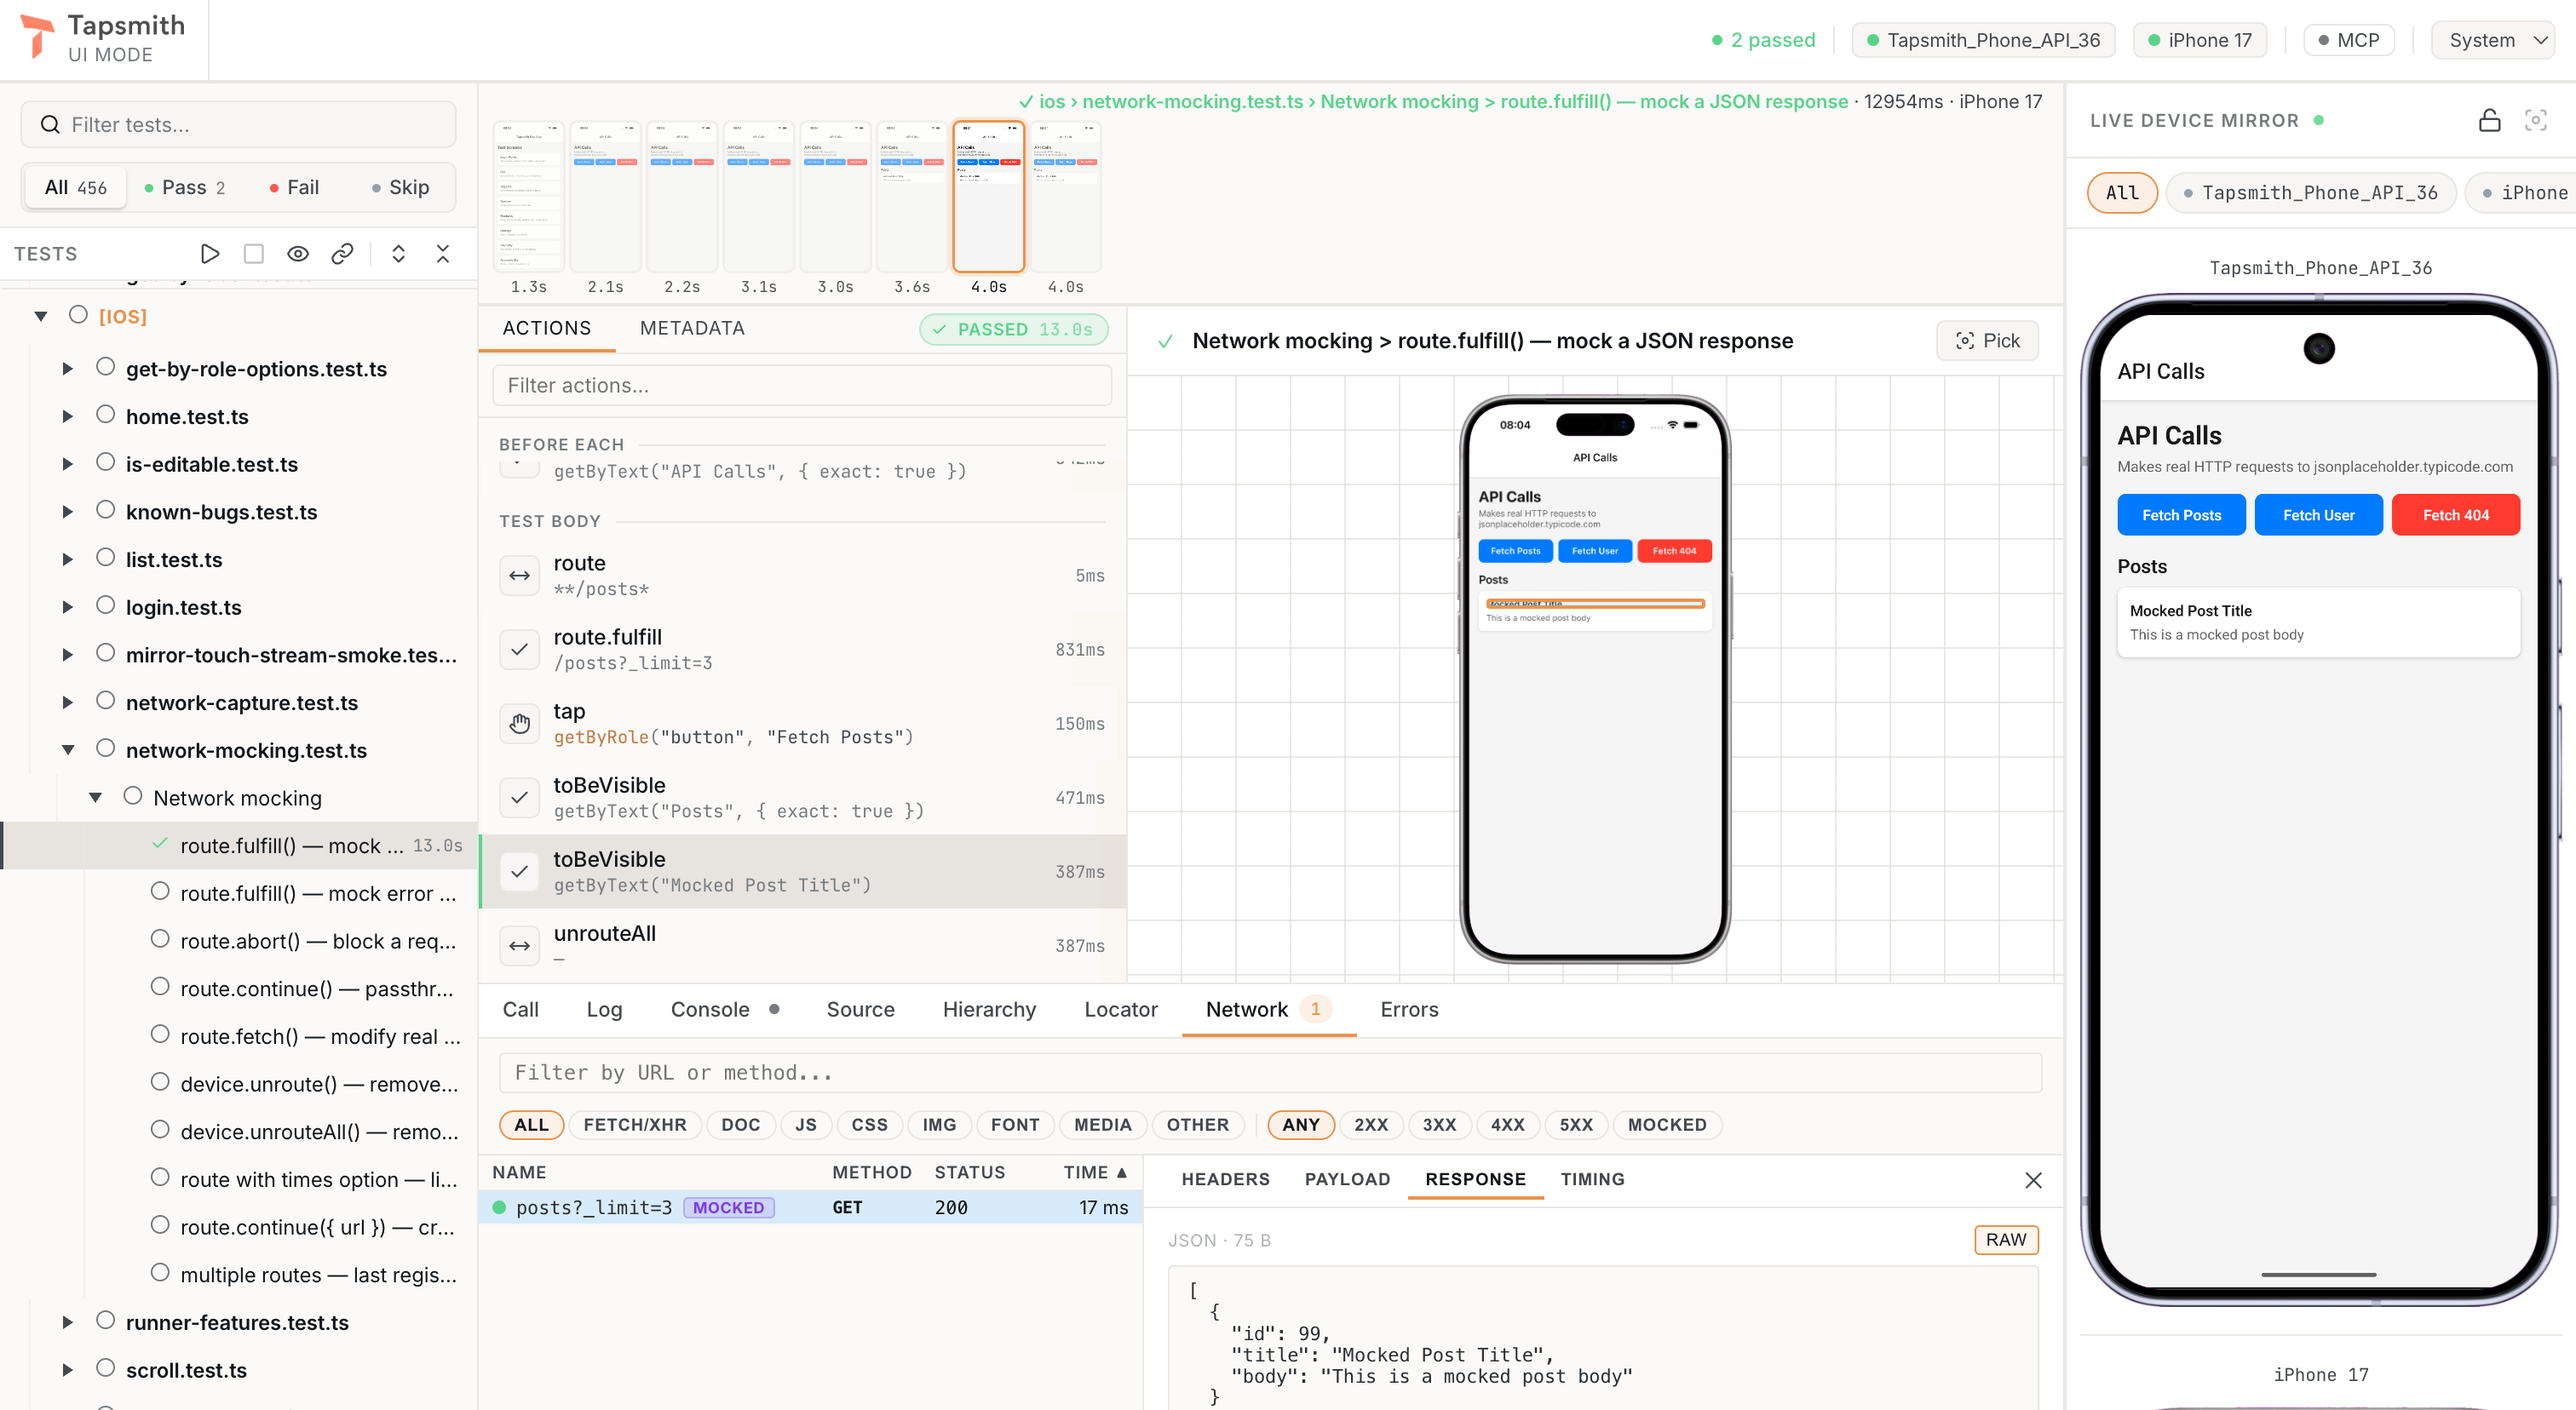
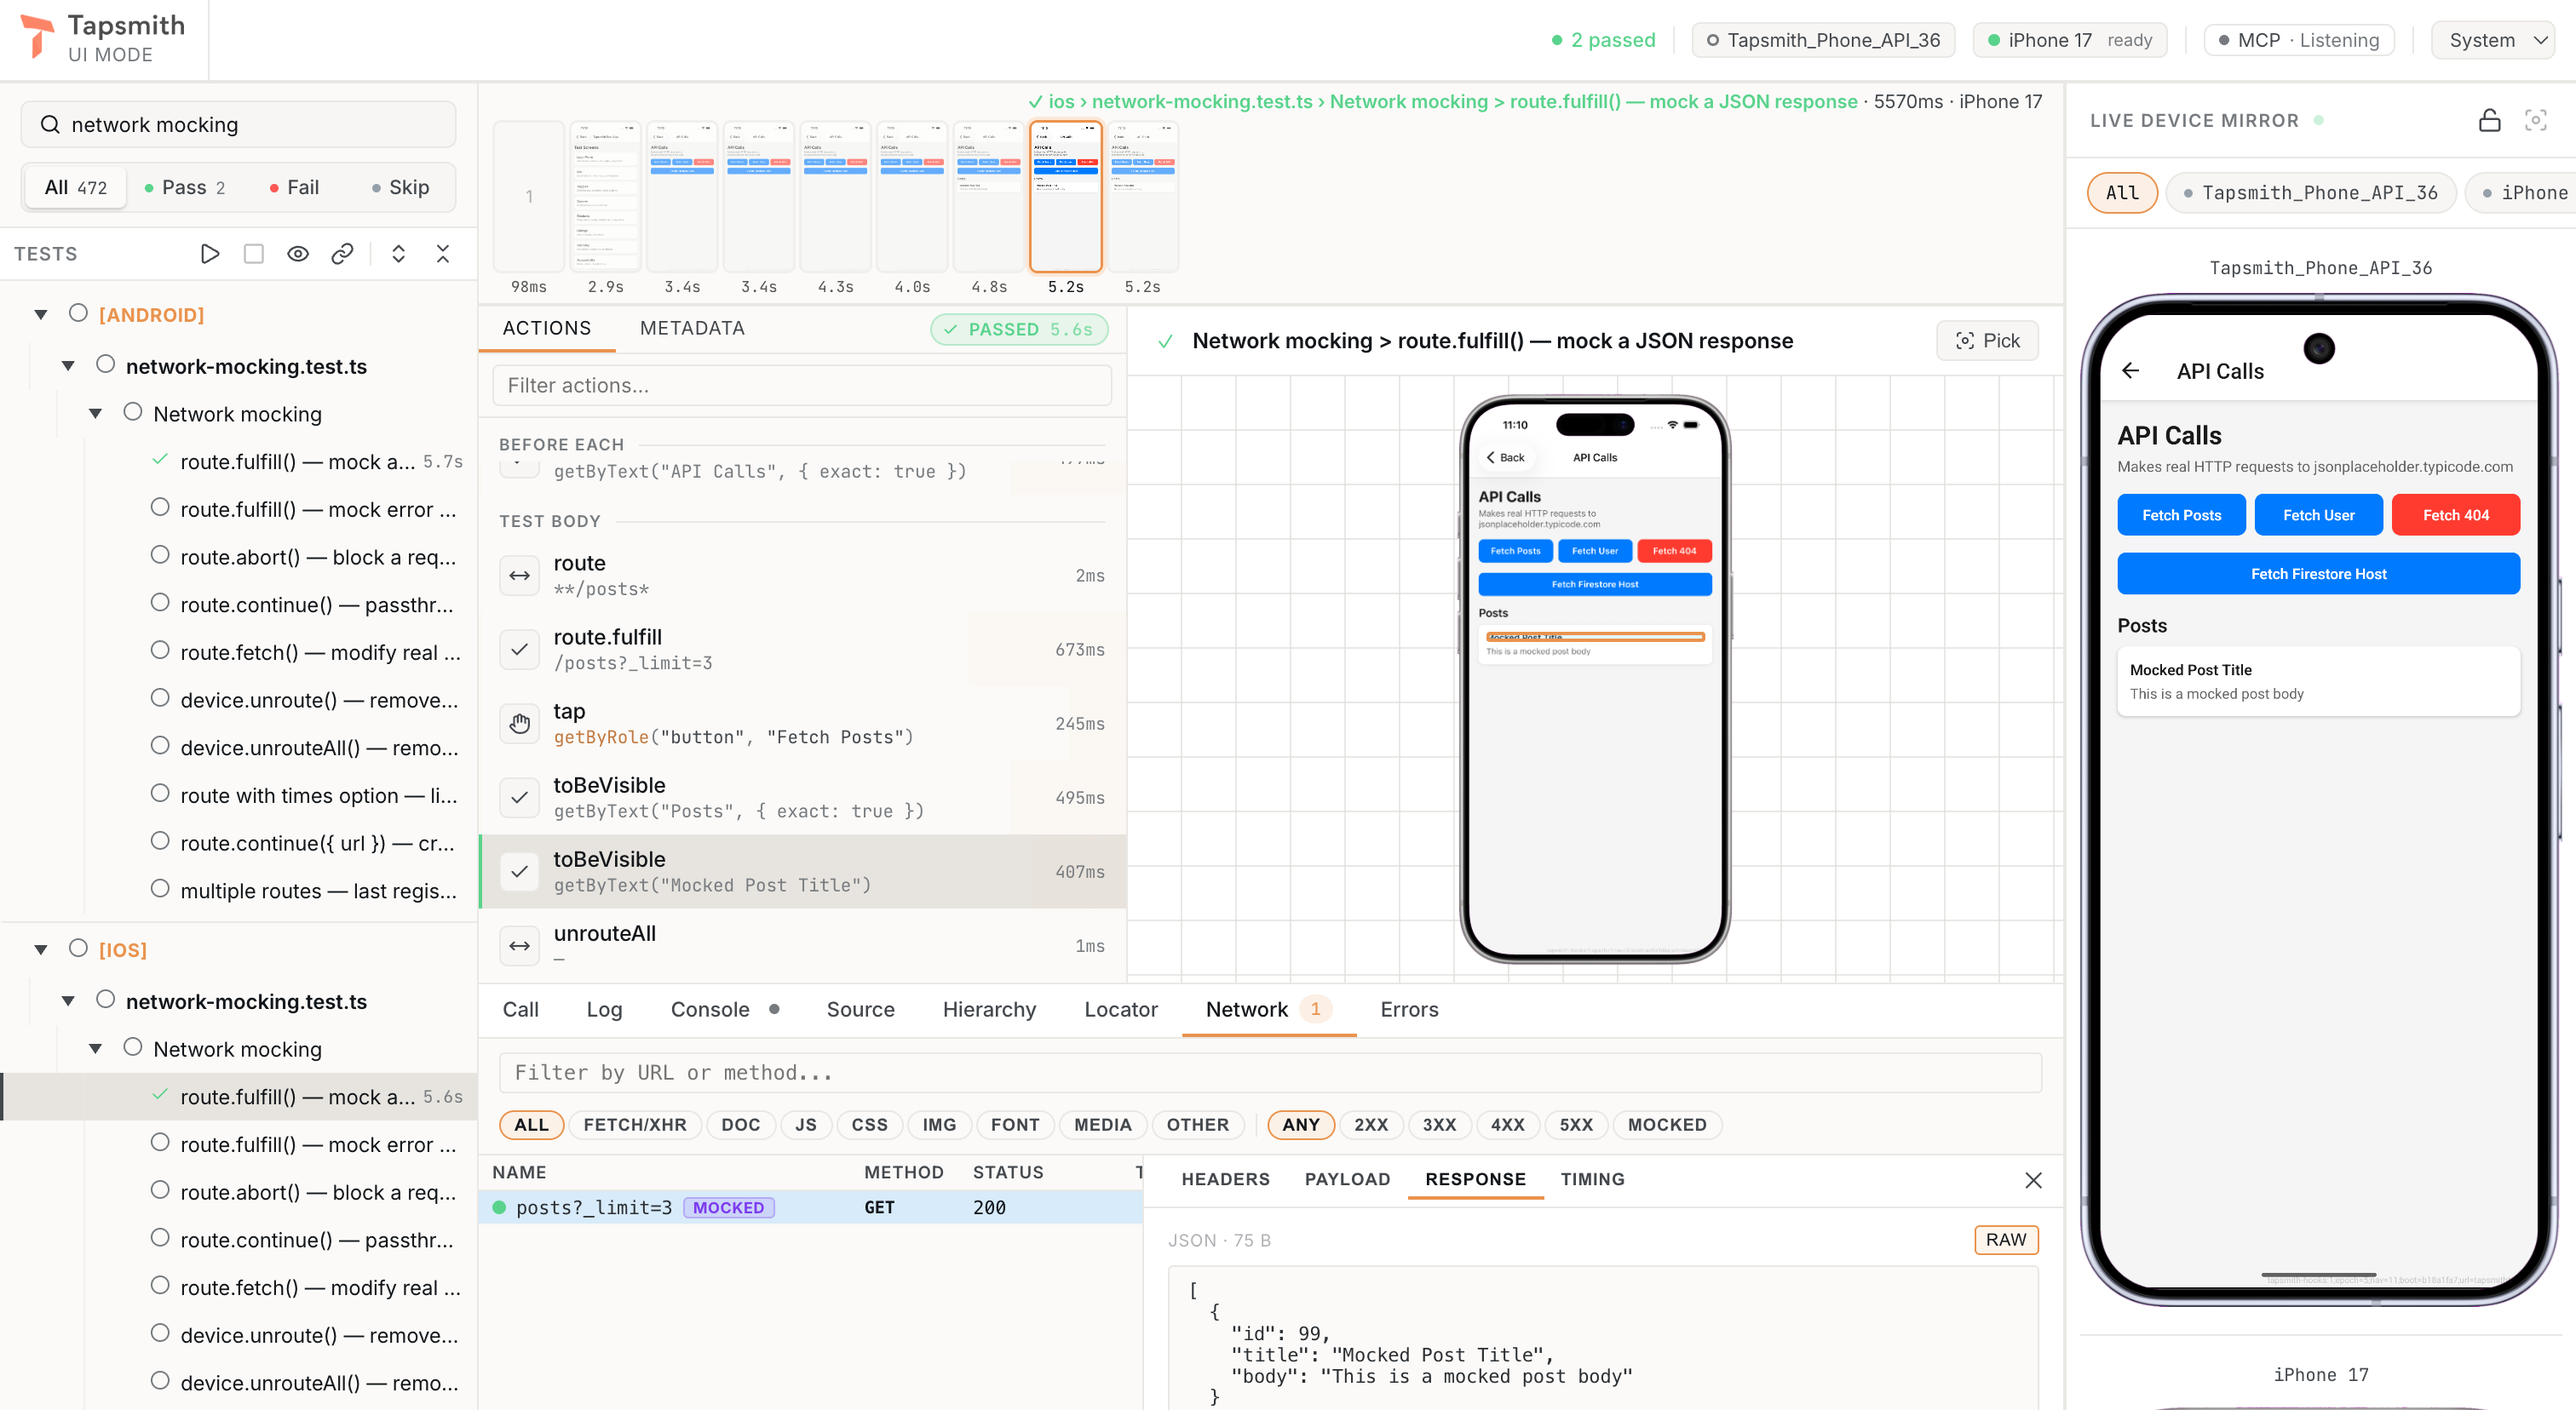
Refresh website/docs screenshots against the current UI
Retake the four UI screenshots (docs/images, mirrored in website/public) so
they show the product as it is on main rather than the July build:

- ui-mode.png: two-platform UI mode (Android emulator + iPhone 17) with the
  network-mocking test green on both, the readiness chips, the toBeVisible
  action selected and the mocked JSON response open in the Network tab.
- ui-mode-pick-locator.png: pick mode on the Android mirror picking "Fetch
  Posts", Locator tab with the suggested locators and match counts.
- trace-viewer.png: a realistic failing login (typo'd email, "Invalid
  credentials" on screen), the new APP RESET section, the Errors tab with the
  assertion message and source snippet.
- html-report.png: 20-test run with one failure carrying Trace and Video.

The capture is now scripted: tools/promo/docs-shots/shoot.mjs drives the real
UI server / trace viewer / report at 1512x828 @2x (waits on the rail's elapsed
timer, retries rows that did not go green, turns "Prepare device between
runs" off so the mirrors stay on the API Calls screen, re-measures the mirror
canvas before picking); docs-shots/canvas.mjs prints the canvas rect for
recalibration. Workflow documented in tools/promo/README.md. The temporary
failing test and configs used for the trace and report were not committed.

Claude-Session: https://claude.ai/code/session_011rzQWDX3pLk3pxT2FKiS7D

diff --git a/tools/promo/README.md b/tools/promo/README.md
@@ -174,6 +174,36 @@ it writes the test. A passing run's feed shows no absolute paths (verified); a F
 does (trace path in the result), so if the on-camera run fails, restart the
 server and re-take rather than shipping those frames.
 
+## Docs / website screenshots
+
+`docs-shots/shoot.mjs` captures the four UI screenshots in `docs/images/`
+(copied to `website/public/` by the site build) at 1512x828 @2x, driving the
+real product the same way the promo recorders do:
+
+```bash
+# two-platform UI mode (e2e/tapsmith.config.mjs: Android emulator + iPhone 17)
+cd ../../e2e && PATH="$(pwd)/../tools/promo/shim:$PATH" \
+  node node_modules/.bin/tapsmith test --ui --ui-port 4830 -c tapsmith.config.mjs &
+cd ../tools/promo
+FORCE_RUN=1 node docs-shots/shoot.mjs ui-mode      http://127.0.0.1:4830 ../../docs/images/ui-mode.png
+node docs-shots/shoot.mjs pick-locator             http://127.0.0.1:4830 ../../docs/images/ui-mode-pick-locator.png
+
+# HTML report + a failing trace: run a temporary typo'd-login test headless
+# with the html reporter, video and trace on retain-on-failure, then
+node docs-shots/shoot.mjs html-report  file:///…/index.html          ../../docs/images/html-report.png
+node server.mjs &   # serves e2e/tapsmith-report/<trace>.zip at /t/<name>
+node docs-shots/shoot.mjs trace-viewer 'http://127.0.0.1:4820/?trace=/t/<trace>.zip' ../../docs/images/trace-viewer.png
+```
+
+`ui-mode` runs the network-mocking test on both platforms, waits on the rail's
+elapsed timer, re-runs any row that did not go green (a loaded machine makes
+the Android agent time out), turns "Prepare device between runs" off so both
+mirrors stay on the API Calls screen, and leaves it off for `pick-locator`.
+The pick fractions target "Fetch Posts" on the Android mirror; recalibrate with
+`docs-shots/canvas.mjs` (prints the canvas rect) if the screen layout changes.
+Show the trace viewer's **Errors** tab, never Call — its SOURCE row shows the
+real filesystem path.
+
 ## Publishing the video to the website
 
 The front page embeds `/promo.mp4`, fetched at build time by
